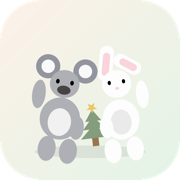
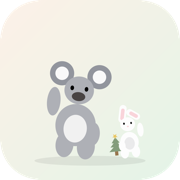
Resize rabbit to half koala size, remove tree from koala

diff --git a/make_icon.swift b/make_icon.swift
@@ -16,7 +16,7 @@ let bgGradient = NSGradient(colors: [
 bgGradient?.draw(in: rect, angle: -45)
 
 func ellipse(_ x: CGFloat, _ y: CGFloat, _ w: CGFloat, _ h: CGFloat) -> NSBezierPath {
-    NSBezierPath(ovalIn: NSRect(x: x - w/2, y: y - h/2, width: w, height: h))
+    NSBezierPath(ovalIn: NSRect(x: x - w / 2, y: y - h / 2, width: w, height: h))
 }
 
 func fillEllipse(_ x: CGFloat, _ y: CGFloat, _ w: CGFloat, _ h: CGFloat, _ color: NSColor) {
@@ -24,153 +24,148 @@ func fillEllipse(_ x: CGFloat, _ y: CGFloat, _ w: CGFloat, _ h: CGFloat, _ color
     ellipse(x, y, w, h).fill()
 }
 
+// All animal drawing functions are written in LOCAL coordinates where
+// (0, 0) is the animal's ground center. A transform is pushed before
+// calling them to place + scale + rotate each animal on the canvas.
+
+func drawKoala() {
+    let gray = NSColor(calibratedRed: 0.62, green: 0.63, blue: 0.66, alpha: 1.0)
+    let grayDark = NSColor(calibratedRed: 0.5, green: 0.51, blue: 0.55, alpha: 1.0)
+    let belly = NSColor(calibratedRed: 0.93, green: 0.93, blue: 0.93, alpha: 1.0)
+
+    let bodyCy: CGFloat = 0.185
+    let headCy: CGFloat = 0.38
+
+    // legs
+    fillEllipse(-0.05, 0.07, 0.10, 0.14, gray)
+    fillEllipse(0.07, 0.07, 0.10, 0.14, gray)
+    // raised arm (dancing)
+    fillEllipse(-0.135, 0.305, 0.075, 0.16, gray)
+    // other arm down
+    fillEllipse(0.10, 0.145, 0.08, 0.13, gray)
+    // body + belly
+    fillEllipse(0, bodyCy, 0.225, 0.235, gray)
+    fillEllipse(0, bodyCy - 0.02, 0.13, 0.155, belly)
+    // ears (big fuzzy)
+    fillEllipse(-0.105, headCy + 0.085, 0.135, 0.135, grayDark)
+    fillEllipse(0.105, headCy + 0.085, 0.135, 0.135, grayDark)
+    fillEllipse(-0.105, headCy + 0.085, 0.075, 0.075, NSColor(calibratedWhite: 0.97, alpha: 1.0))
+    fillEllipse(0.105, headCy + 0.085, 0.075, 0.075, NSColor(calibratedWhite: 0.97, alpha: 1.0))
+    // head
+    fillEllipse(0, headCy, 0.165, 0.155, gray)
+    // eyes
+    fillEllipse(-0.04, headCy + 0.01, 0.02, 0.026, NSColor.black)
+    fillEllipse(0.04, headCy + 0.01, 0.02, 0.026, NSColor.black)
+    // nose
+    fillEllipse(0, headCy - 0.035, 0.075, 0.05, NSColor(calibratedRed: 0.22, green: 0.2, blue: 0.2, alpha: 1.0))
+}
+
+func drawRabbitWithTree() {
+    let white = NSColor(calibratedWhite: 0.99, alpha: 1.0)
+    let shade = NSColor(calibratedWhite: 0.90, alpha: 1.0)
+    let pink = NSColor(calibratedRed: 1.0, green: 0.78, blue: 0.82, alpha: 1.0)
+
+    let bodyCy: CGFloat = 0.18
+    let headCy: CGFloat = 0.38
+
+    // legs
+    fillEllipse(-0.065, 0.07, 0.095, 0.135, white)
+    fillEllipse(0.06, 0.07, 0.095, 0.135, white)
+    // raised arm (dancing)
+    fillEllipse(0.135, 0.305, 0.07, 0.155, white)
+
+    // christmas tree, held in front by the other arm
+    let treeCx: CGFloat = -0.155
+    let treeBaseY: CGFloat = 0.045
+    NSColor(calibratedRed: 0.55, green: 0.38, blue: 0.22, alpha: 1.0).setFill()
+    NSBezierPath(rect: NSRect(x: treeCx - 0.018, y: treeBaseY, width: 0.036, height: 0.05)).fill()
+    let treeGreen = NSColor(calibratedRed: 0.42, green: 0.56, blue: 0.4, alpha: 1.0)
+    func tier(_ cy: CGFloat, _ w: CGFloat, _ h: CGFloat) {
+        let tri = NSBezierPath()
+        tri.move(to: NSPoint(x: treeCx, y: cy + h))
+        tri.line(to: NSPoint(x: treeCx - w / 2, y: cy))
+        tri.line(to: NSPoint(x: treeCx + w / 2, y: cy))
+        tri.close()
+        treeGreen.setFill()
+        tri.fill()
+    }
+    tier(treeBaseY + 0.045, 0.16, 0.075)
+    tier(treeBaseY + 0.095, 0.125, 0.07)
+    tier(treeBaseY + 0.14, 0.09, 0.065)
+    // gold star
+    let starCy = treeBaseY + 0.215
+    let star = NSBezierPath()
+    let starOuter: CGFloat = 0.032
+    let starInner: CGFloat = 0.013
+    for i in 0..<10 {
+        let angle = CGFloat(i) * .pi / 5 - .pi / 2
+        let r = i % 2 == 0 ? starOuter : starInner
+        let p = NSPoint(x: treeCx + r * cos(angle), y: starCy + r * sin(angle))
+        if i == 0 { star.move(to: p) } else { star.line(to: p) }
+    }
+    star.close()
+    NSColor(calibratedRed: 0.93, green: 0.73, blue: 0.25, alpha: 1.0).setFill()
+    star.fill()
+
+    // body + front hugging arm (drawn after tree so it overlaps the trunk)
+    fillEllipse(0, bodyCy, 0.205, 0.225, white)
+    fillEllipse(0, bodyCy - 0.015, 0.115, 0.14, shade)
+    fillEllipse(-0.085, 0.145, 0.075, 0.12, white)
+
+    // ears: one up, one folded (jellycat style)
+    NSGraphicsContext.saveGraphicsState()
+    let earUpT = NSAffineTransform()
+    earUpT.translateX(by: -0.045, yBy: headCy + 0.12)
+    earUpT.rotate(byDegrees: -12)
+    earUpT.translateX(by: 0.045, yBy: -(headCy + 0.12))
+    earUpT.concat()
+    let earUp = NSBezierPath(roundedRect: NSRect(x: -0.045 - 0.04, y: headCy + 0.02, width: 0.08, height: 0.2), xRadius: 0.04, yRadius: 0.04)
+    white.setFill(); earUp.fill()
+    let earUpInner = NSBezierPath(roundedRect: NSRect(x: -0.045 - 0.02, y: headCy + 0.05, width: 0.04, height: 0.13), xRadius: 0.02, yRadius: 0.02)
+    pink.setFill(); earUpInner.fill()
+    NSGraphicsContext.restoreGraphicsState()
+
+    NSGraphicsContext.saveGraphicsState()
+    let earFoldT = NSAffineTransform()
+    earFoldT.translateX(by: 0.075, yBy: headCy + 0.1)
+    earFoldT.rotate(byDegrees: 55)
+    earFoldT.translateX(by: -0.075, yBy: -(headCy + 0.1))
+    earFoldT.concat()
+    let earFold = NSBezierPath(roundedRect: NSRect(x: 0.075 - 0.038, y: headCy + 0.02, width: 0.076, height: 0.165), xRadius: 0.038, yRadius: 0.038)
+    white.setFill(); earFold.fill()
+    let earFoldInner = NSBezierPath(roundedRect: NSRect(x: 0.075 - 0.02, y: headCy + 0.045, width: 0.04, height: 0.105), xRadius: 0.02, yRadius: 0.02)
+    pink.setFill(); earFoldInner.fill()
+    NSGraphicsContext.restoreGraphicsState()
+
+    // head
+    fillEllipse(0, headCy, 0.165, 0.155, white)
+    fillEllipse(-0.04, headCy + 0.01, 0.018, 0.024, NSColor.black)
+    fillEllipse(0.04, headCy + 0.01, 0.018, 0.024, NSColor.black)
+    fillEllipse(0, headCy - 0.025, 0.022, 0.016, pink)
+}
+
 // ===== Ground shadow =====
 NSColor.black.withAlphaComponent(0.07).setFill()
-ellipse(s * 0.5, s * 0.155, s * 0.62, s * 0.07).fill()
+ellipse(s * 0.5, s * 0.105, s * 0.62, s * 0.055).fill()
 
-// ===== KOALA (left, dancing - leaning right with raised arm) =====
-let koalaGray = NSColor(calibratedRed: 0.62, green: 0.63, blue: 0.66, alpha: 1.0)
-let koalaGrayDark = NSColor(calibratedRed: 0.5, green: 0.51, blue: 0.55, alpha: 1.0)
-let koalaBelly = NSColor(calibratedRed: 0.93, green: 0.93, blue: 0.93, alpha: 1.0)
-
+// ===== KOALA: full size, standing left of center =====
 NSGraphicsContext.saveGraphicsState()
-let koalaTransform = NSAffineTransform()
-koalaTransform.translateX(by: s * 0.34, yBy: s * 0.40)
-koalaTransform.rotate(byDegrees: -8)
-koalaTransform.translateX(by: -s * 0.34, yBy: -s * 0.40)
-koalaTransform.concat()
-
-let koalaCx = s * 0.34
-let koalaBodyCy = s * 0.34
-// legs
-fillEllipse(koalaCx - s * 0.05, s * 0.165, s * 0.10, s * 0.14, koalaGray)
-fillEllipse(koalaCx + s * 0.07, s * 0.165, s * 0.10, s * 0.14, koalaGray)
-// raised arm (left arm up, dancing)
-fillEllipse(koalaCx - s * 0.135, s * 0.46, s * 0.075, s * 0.16, koalaGray)
-// other arm down, toward rabbit
-fillEllipse(koalaCx + s * 0.10, s * 0.30, s * 0.08, s * 0.13, koalaGray)
-// body
-fillEllipse(koalaCx, koalaBodyCy, s * 0.225, s * 0.235, koalaGray)
-// belly
-fillEllipse(koalaCx, koalaBodyCy - s * 0.02, s * 0.13, s * 0.155, koalaBelly)
-// head
-let koalaHeadCy = s * 0.535
-// ears (big fuzzy)
-fillEllipse(koalaCx - s * 0.105, koalaHeadCy + s * 0.085, s * 0.135, s * 0.135, koalaGrayDark)
-fillEllipse(koalaCx + s * 0.105, koalaHeadCy + s * 0.085, s * 0.135, s * 0.135, koalaGrayDark)
-fillEllipse(koalaCx - s * 0.105, koalaHeadCy + s * 0.085, s * 0.075, s * 0.075, NSColor(calibratedWhite: 0.97, alpha: 1.0))
-fillEllipse(koalaCx + s * 0.105, koalaHeadCy + s * 0.085, s * 0.075, s * 0.075, NSColor(calibratedWhite: 0.97, alpha: 1.0))
-fillEllipse(koalaCx, koalaHeadCy, s * 0.165, s * 0.155, koalaGray)
-// eyes
-fillEllipse(koalaCx - s * 0.04, koalaHeadCy + s * 0.01, s * 0.02, s * 0.026, NSColor.black)
-fillEllipse(koalaCx + s * 0.04, koalaHeadCy + s * 0.01, s * 0.02, s * 0.026, NSColor.black)
-// big oval nose
-fillEllipse(koalaCx, koalaHeadCy - s * 0.035, s * 0.075, s * 0.05, NSColor(calibratedRed: 0.22, green: 0.2, blue: 0.2, alpha: 1.0))
-
+let koalaT = NSAffineTransform()
+koalaT.translateX(by: s * 0.4, yBy: s * 0.12)
+koalaT.rotate(byDegrees: -6)
+koalaT.scaleX(by: s, yBy: s)
+koalaT.concat()
+drawKoala()
 NSGraphicsContext.restoreGraphicsState()
 
-// ===== RABBIT (right, white, holding christmas tree) =====
+// ===== RABBIT + TREE: half the koala's size, standing to the right =====
 NSGraphicsContext.saveGraphicsState()
-let rabbitTransform = NSAffineTransform()
-rabbitTransform.translateX(by: s * 0.665, yBy: s * 0.40)
-rabbitTransform.rotate(byDegrees: 7)
-rabbitTransform.translateX(by: -s * 0.665, yBy: -s * 0.40)
-rabbitTransform.concat()
-
-let rabbitWhite = NSColor(calibratedWhite: 0.99, alpha: 1.0)
-let rabbitShade = NSColor(calibratedWhite: 0.90, alpha: 1.0)
-let rabbitPink = NSColor(calibratedRed: 1.0, green: 0.78, blue: 0.82, alpha: 1.0)
-
-let rabbitCx = s * 0.665
-let rabbitBodyCy = s * 0.335
-// legs
-fillEllipse(rabbitCx - s * 0.065, s * 0.165, s * 0.095, s * 0.135, rabbitWhite)
-fillEllipse(rabbitCx + s * 0.06, s * 0.165, s * 0.095, s * 0.135, rabbitWhite)
-// raised arm (dancing, right arm up)
-fillEllipse(rabbitCx + s * 0.135, s * 0.46, s * 0.07, s * 0.155, rabbitWhite)
-// body
-fillEllipse(rabbitCx, rabbitBodyCy, s * 0.205, s * 0.225, rabbitWhite)
-fillEllipse(rabbitCx, rabbitBodyCy - s * 0.015, s * 0.115, s * 0.14, rabbitShade)
-
-// ===== Christmas tree held by rabbit's other arm (in front of body, left side) =====
-let treeCx = rabbitCx - s * 0.155
-let treeBaseY = s * 0.205
-// trunk
-let trunkRect = NSRect(x: treeCx - s * 0.018, y: treeBaseY, width: s * 0.036, height: s * 0.05)
-NSColor(calibratedRed: 0.55, green: 0.38, blue: 0.22, alpha: 1.0).setFill()
-NSBezierPath(rect: trunkRect).fill()
-// tree tiers
-let treeGreen = NSColor(calibratedRed: 0.42, green: 0.56, blue: 0.4, alpha: 1.0)
-func triangleTier(_ cy: CGFloat, _ w: CGFloat, _ h: CGFloat) {
-    let tri = NSBezierPath()
-    tri.move(to: NSPoint(x: treeCx, y: cy + h))
-    tri.line(to: NSPoint(x: treeCx - w/2, y: cy))
-    tri.line(to: NSPoint(x: treeCx + w/2, y: cy))
-    tri.close()
-    treeGreen.setFill()
-    tri.fill()
-}
-triangleTier(treeBaseY + s * 0.045, s * 0.16, s * 0.075)
-triangleTier(treeBaseY + s * 0.095, s * 0.125, s * 0.07)
-triangleTier(treeBaseY + s * 0.14, s * 0.09, s * 0.065)
-// gold star
-let starCy = treeBaseY + s * 0.215
-let star = NSBezierPath()
-let starPoints = 5
-let starOuter = s * 0.032
-let starInner = s * 0.013
-for i in 0..<(starPoints * 2) {
-    let angle = CGFloat(i) * .pi / CGFloat(starPoints) - .pi / 2
-    let r = i % 2 == 0 ? starOuter : starInner
-    let p = NSPoint(x: treeCx + r * cos(angle), y: starCy + r * sin(angle))
-    if i == 0 { star.move(to: p) } else { star.line(to: p) }
-}
-star.close()
-NSColor(calibratedRed: 0.93, green: 0.73, blue: 0.25, alpha: 1.0).setFill()
-star.fill()
-
-// front arm hugging tree (drawn after tree so it overlaps slightly)
-fillEllipse(rabbitCx - s * 0.085, s * 0.30, s * 0.075, s * 0.12, rabbitWhite)
-
-// head
-let rabbitHeadCy = s * 0.535
-// ears: one up, one folded down (like jellycat bunny)
-NSGraphicsContext.saveGraphicsState()
-let earUpTransform = NSAffineTransform()
-earUpTransform.translateX(by: rabbitCx - s * 0.045, yBy: rabbitHeadCy + s * 0.12)
-earUpTransform.rotate(byDegrees: -12)
-earUpTransform.translateX(by: -(rabbitCx - s * 0.045), yBy: -(rabbitHeadCy + s * 0.12))
-earUpTransform.concat()
-let earUp = NSBezierPath(roundedRect: NSRect(x: rabbitCx - s * 0.045 - s * 0.04, y: rabbitHeadCy + s * 0.02, width: s * 0.08, height: s * 0.2), xRadius: s * 0.04, yRadius: s * 0.04)
-rabbitWhite.setFill()
-earUp.fill()
-let earUpInner = NSBezierPath(roundedRect: NSRect(x: rabbitCx - s * 0.045 - s * 0.02, y: rabbitHeadCy + s * 0.05, width: s * 0.04, height: s * 0.13), xRadius: s * 0.02, yRadius: s * 0.02)
-rabbitPink.setFill()
-earUpInner.fill()
-NSGraphicsContext.restoreGraphicsState()
-
-NSGraphicsContext.saveGraphicsState()
-let earFoldTransform = NSAffineTransform()
-earFoldTransform.translateX(by: rabbitCx + s * 0.075, yBy: rabbitHeadCy + s * 0.1)
-earFoldTransform.rotate(byDegrees: 55)
-earFoldTransform.translateX(by: -(rabbitCx + s * 0.075), yBy: -(rabbitHeadCy + s * 0.1))
-earFoldTransform.concat()
-let earFold = NSBezierPath(roundedRect: NSRect(x: rabbitCx + s * 0.075 - s * 0.038, y: rabbitHeadCy + s * 0.02, width: s * 0.076, height: s * 0.165), xRadius: s * 0.038, yRadius: s * 0.038)
-rabbitWhite.setFill()
-earFold.fill()
-let earFoldInner = NSBezierPath(roundedRect: NSRect(x: rabbitCx + s * 0.075 - s * 0.02, y: rabbitHeadCy + s * 0.045, width: s * 0.04, height: s * 0.105), xRadius: s * 0.02, yRadius: s * 0.02)
-rabbitPink.setFill()
-earFoldInner.fill()
-NSGraphicsContext.restoreGraphicsState()
-
-// head shape
-fillEllipse(rabbitCx, rabbitHeadCy, s * 0.165, s * 0.155, rabbitWhite)
-// eyes
-fillEllipse(rabbitCx - s * 0.04, rabbitHeadCy + s * 0.01, s * 0.018, s * 0.024, NSColor.black)
-fillEllipse(rabbitCx + s * 0.04, rabbitHeadCy + s * 0.01, s * 0.018, s * 0.024, NSColor.black)
-// nose
-fillEllipse(rabbitCx, rabbitHeadCy - s * 0.025, s * 0.022, s * 0.016, rabbitPink)
-
+let rabbitT = NSAffineTransform()
+rabbitT.translateX(by: s * 0.73, yBy: s * 0.12)
+rabbitT.rotate(byDegrees: 6)
+rabbitT.scaleX(by: s * 0.5, yBy: s * 0.5)
+rabbitT.concat()
+drawRabbitWithTree()
 NSGraphicsContext.restoreGraphicsState()
 
 image.unlockFocus()